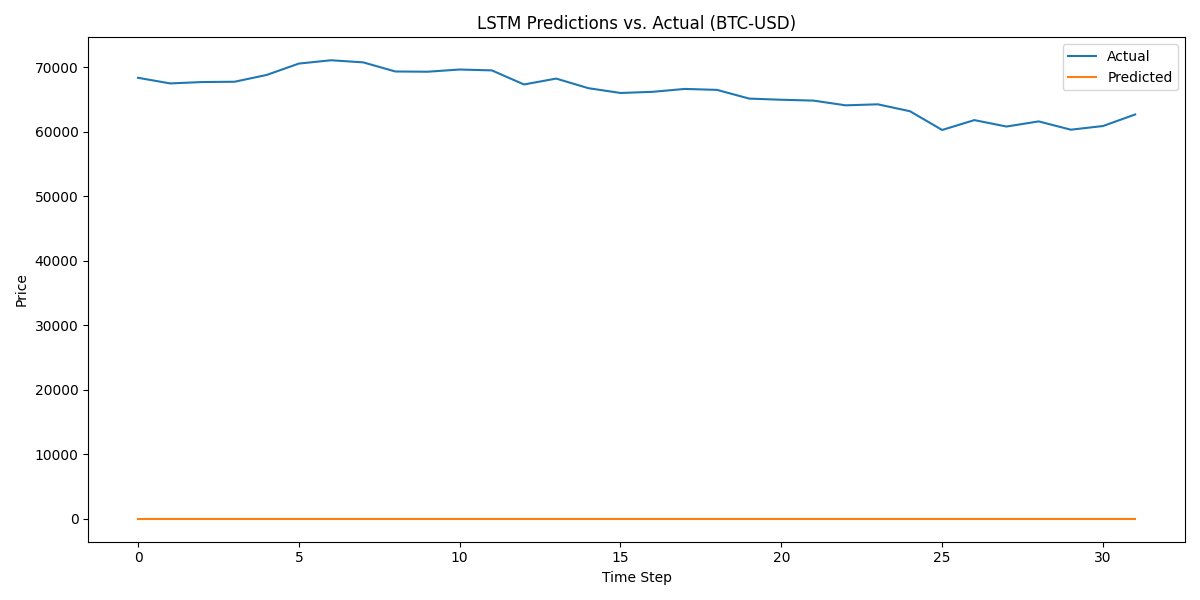
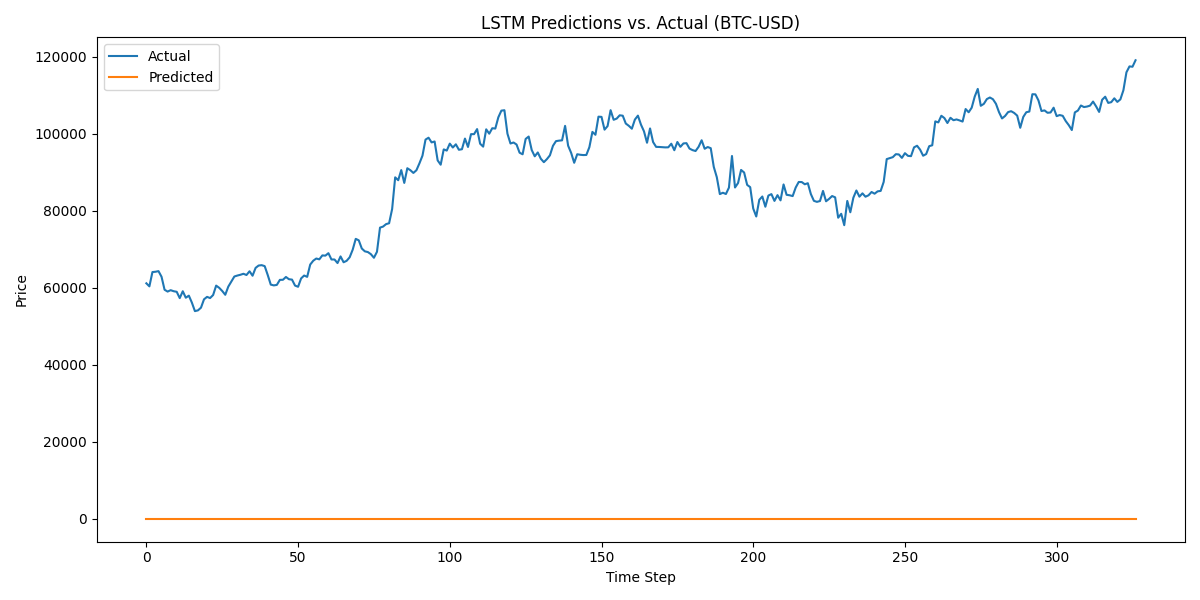
Update BTC data source to use extended 2021-2025 dataset

diff --git a/stock_prediction_ai/main.py b/stock_prediction_ai/main.py
@@ -42,7 +42,11 @@ def train_lstm(model, X_train, y_train, X_val, y_val, epochs=30, lr=0.001):
 def main():
     # Select asset: 'AAPL', 'BTC-USD', or 'ETH-USD'
     asset = 'BTC-USD'  # Change to 'AAPL' or 'ETH-USD' as needed
-    data_file = f'stock_prediction_ai/data/{asset.lower().replace("-usd", "")}_2024.csv'
+    # Use extended BTC data if asset is BTC-USD
+    if asset == 'BTC-USD':
+        data_file = 'stock_prediction_ai/data/btc_2021_2025.csv'
+    else:
+        data_file = f'stock_prediction_ai/data/{asset.lower().replace("-usd", "")}_2024.csv'
     # Fetch data if not present
     if not os.path.exists(data_file):
         fetch_and_save_stock_data(asset, '2024-01-01', '2024-07-01', data_file)
